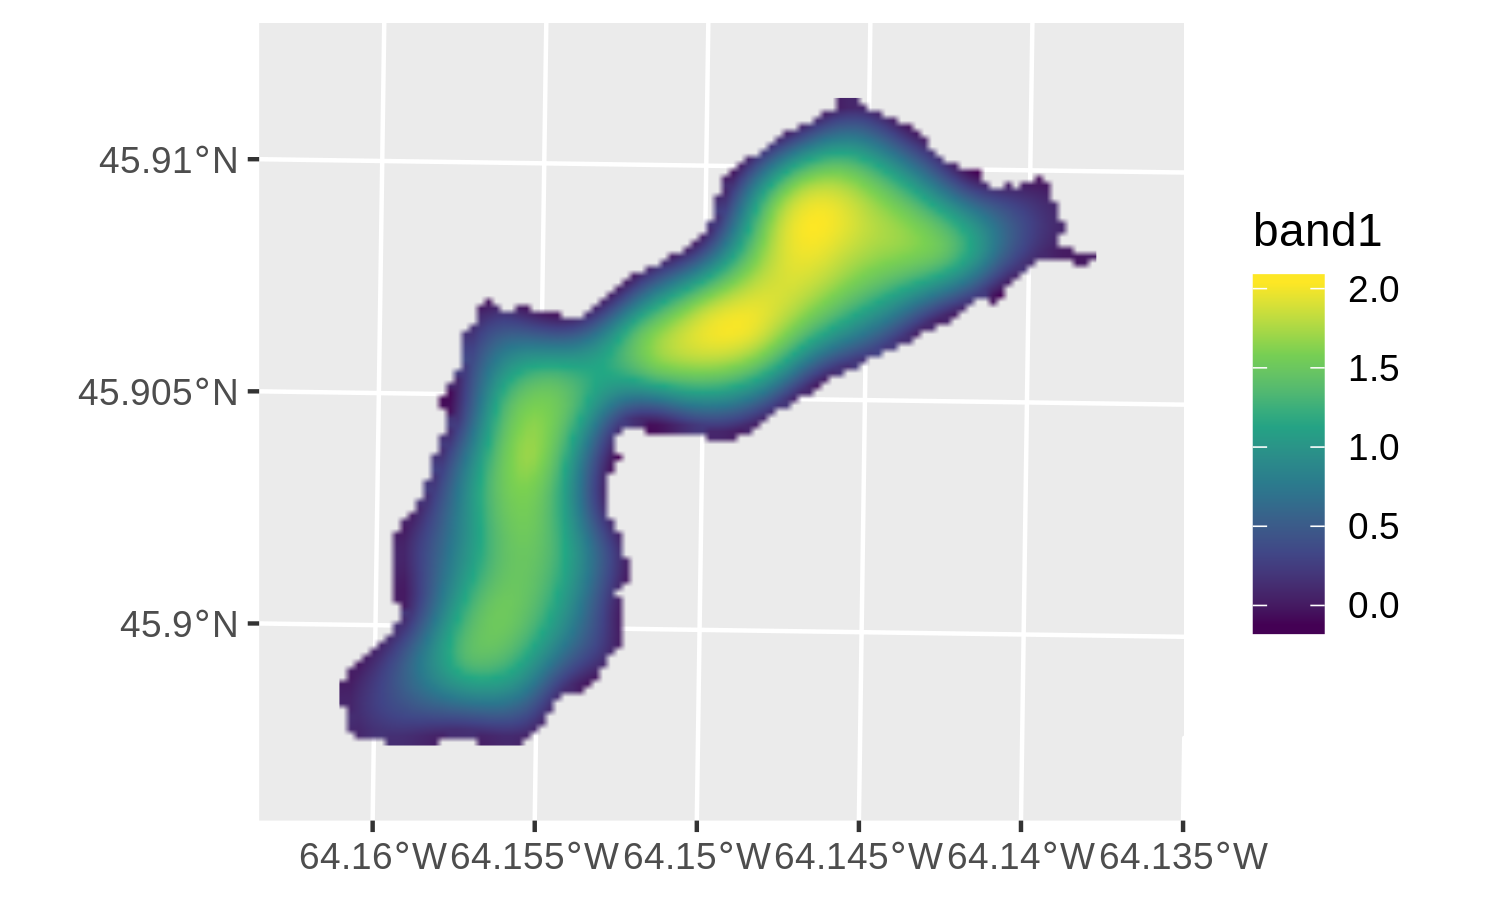
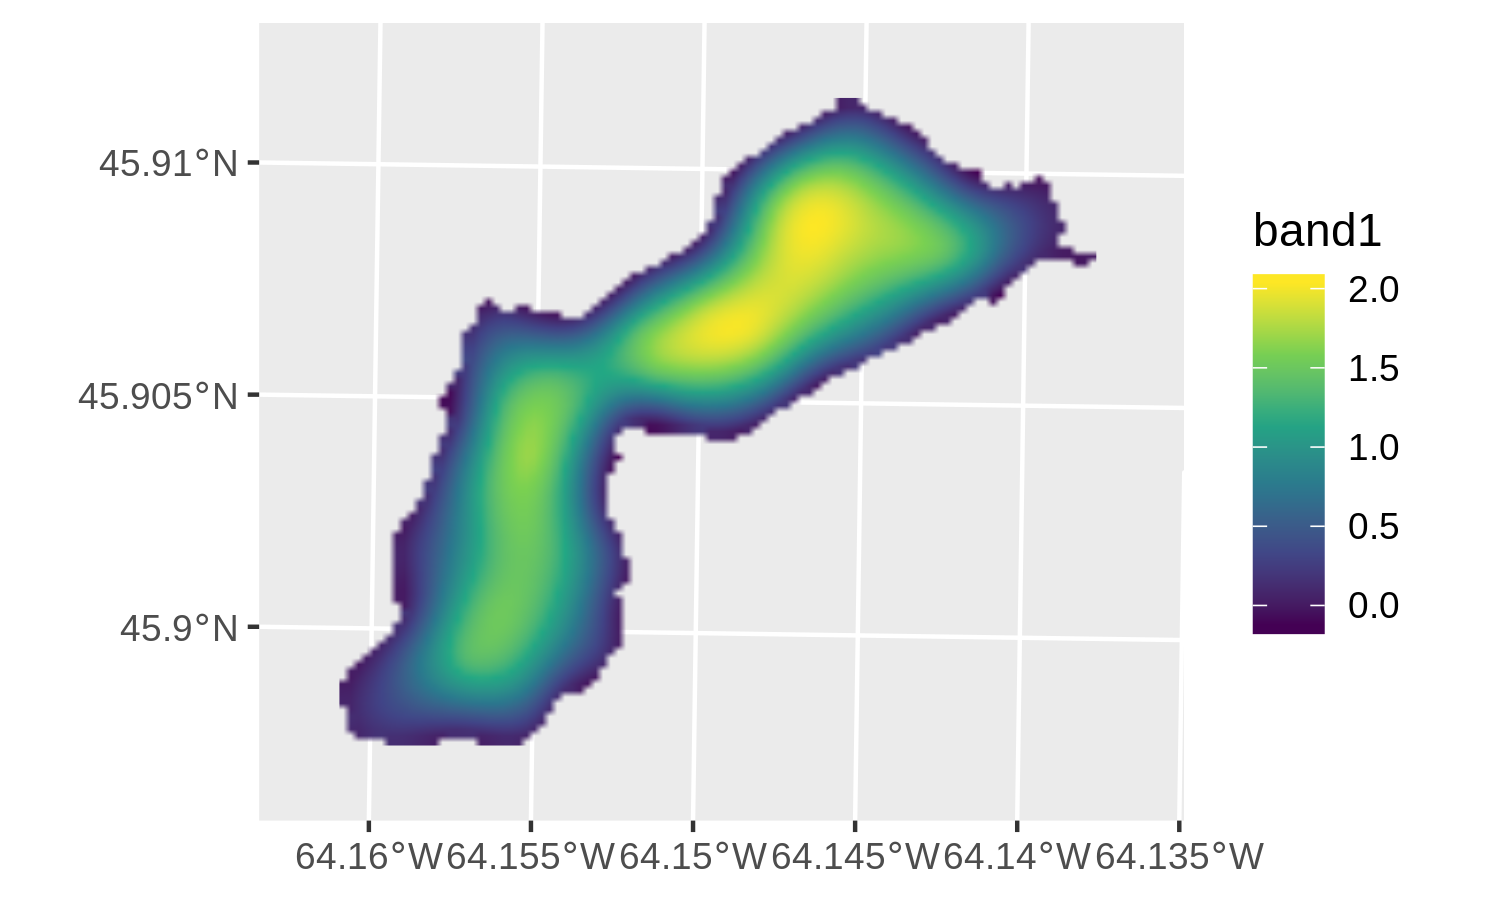
Built site for ggspatial: 1.0.4.9000@3977964

diff --git a/dev/reference/df_spatial.html b/dev/reference/df_spatial.html
@@ -142,16 +142,16 @@ features as <code>feature_id</code>, and parts as <code>part_id</code>.</p>
 <span class='fu'>df_spatial</span>(<span class='no'>longlake_osm</span>)</div><div class='output co'>#&gt; # A tibble: 260,463 x 5
 #&gt;          x        y band1 band2 band3
 #&gt;      &lt;dbl&gt;    &lt;dbl&gt; &lt;int&gt; &lt;int&gt; &lt;int&gt;
-#&gt;  1 409891. 5084849.   180   217   163
-#&gt;  2 409895. 5084849.   184   219   164
-#&gt;  3 409898. 5084849.   189   223   167
-#&gt;  4 409901. 5084849.   186   223   166
-#&gt;  5 409905. 5084849.   166   210   157
-#&gt;  6 409908. 5084849.   163   208   156
-#&gt;  7 409911. 5084849.   160   206   155
-#&gt;  8 409915. 5084849.   154   202   151
-#&gt;  9 409918. 5084849.   156   203   152
-#&gt; 10 409921. 5084849.   149   199   150
+#&gt;  1 409893. 5084851.   180   217   163
+#&gt;  2 409896. 5084851.   184   219   164
+#&gt;  3 409900. 5084851.   189   223   167
+#&gt;  4 409903. 5084851.   186   223   166
+#&gt;  5 409906. 5084851.   166   210   157
+#&gt;  6 409910. 5084851.   163   208   156
+#&gt;  7 409913. 5084851.   160   206   155
+#&gt;  8 409916. 5084851.   154   202   151
+#&gt;  9 409920. 5084851.   156   203   152
+#&gt; 10 409923. 5084851.   149   199   150
 #&gt; # … with 260,453 more rows</div><div class='input'><span class='fu'>df_spatial</span>(<span class='no'>longlake_depthdf</span>)</div><div class='output co'>#&gt; # A tibble: 64 x 10
 #&gt;          x      y feature_id part_id WAYPOINT_I   LAT   LON DEPTH NOTES  DEPTH_M
 #&gt;      &lt;dbl&gt;  &lt;dbl&gt;      &lt;int&gt;   &lt;int&gt;      &lt;dbl&gt; &lt;dbl&gt; &lt;dbl&gt; &lt;dbl&gt; &lt;chr&gt;    &lt;dbl&gt;
